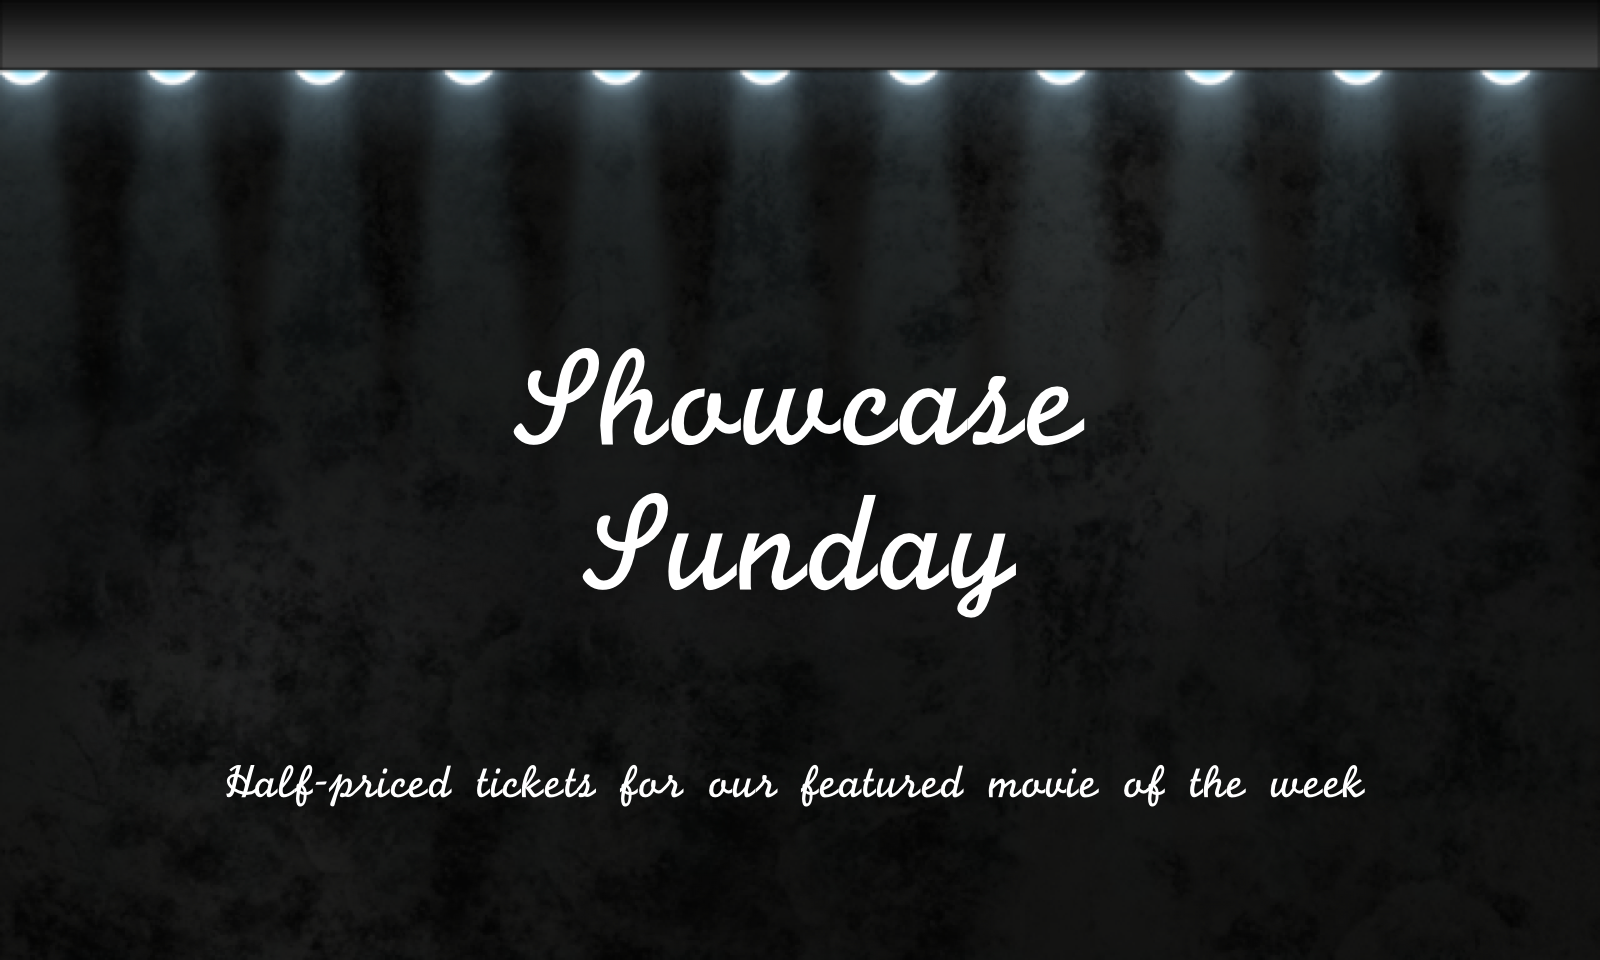
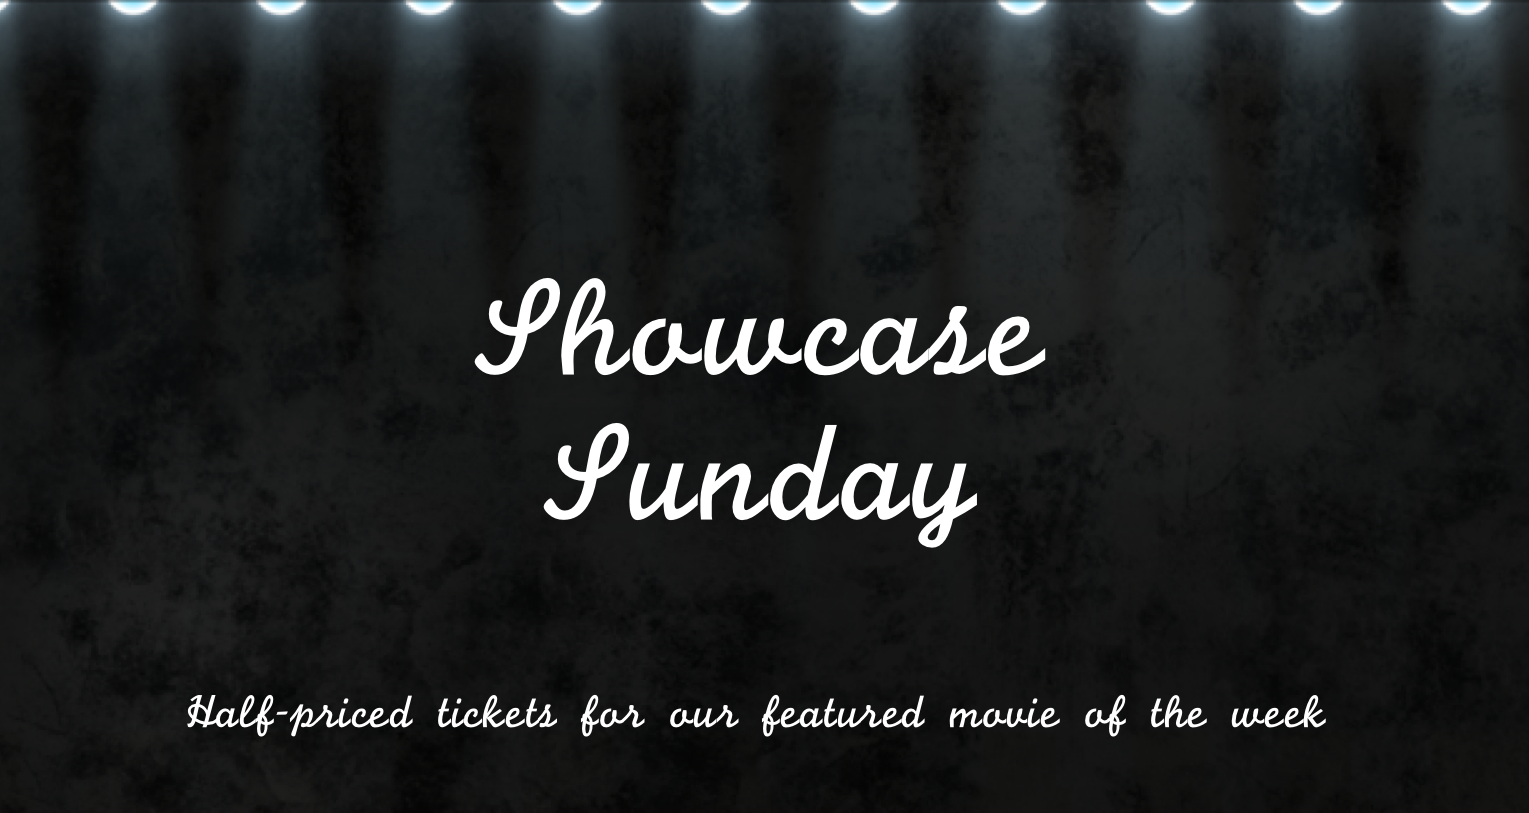
Adding to carousel

diff --git a/theater/templates/base.html b/theater/templates/base.html
@@ -83,6 +83,7 @@
 				<li data-target="#main-slider" data-slide-to="2"></li>
 			</ol>
 			<div class="carousel-inner">
+                
 				<div class="item active">
 					<img class="img-responsive" src="{% static 'images/slider/bg1.jpg' %}" alt="slider">
 					<div class="carousel-caption">
@@ -91,36 +92,26 @@
 						<a href="#contact">Buy Tickets<i class="fa fa-angle-right"></i></a>
 					</div>
 				</div>
+
 				<div class="item">
-<<<<<<< HEAD
 					<img class="img-responsive" src="{% static 'images/slider/bg2.png' %}" alt="slider">
 {#                   SOURCE: http://moonwell.typepad.com/photos/grab_bag_gallery/spotlights-copy.png#}
-=======
-					<img class="img-responsive" src="{% static 'images/slider/bg2.jpg' %}" alt="slider">
 					<div class="carousel-caption">
 						<h2>Title</h2>
 						<h4>Subtitle</h4>
 						<a href="#contact">Buy Tickets<i class="fa fa-angle-right"></i></a>
 					</div>
 				</div>
+
 				<div class="item">
 					<img class="img-responsive" src="{% static 'images/slider/bg3.jpg' %}" alt="slider">
->>>>>>> FETCH_HEAD
+{#                   SOURCE: http://moonwell.typepad.com/photos/grab_bag_gallery/spotlights-copy.png#}
 					<div class="carousel-caption">
 						<h2>Title</h2>
 						<h4>Subtitle</h4>
 						<a href="#contact">Buy Tickets<i class="fa fa-angle-right"></i></a>
 					</div>
 				</div>
-{#				<div class="item">#}
-{#					<img class="img-responsive" src="{% static 'images/slider/bg1.jpg' %}" alt="slider">#}
-{#					<div class="carousel-caption">#}
-{#						<h2>Title</h2>#}
-{#						<h4>Subtitle</h4>#}
-{#						<a href="#contact">Buy Tickets<i class="fa fa-angle-right"></i></a>#}
-{#					</div>#}
-{#				</div>#}
-				</div>				
 			</div>
 		</div>    	
     </section>
